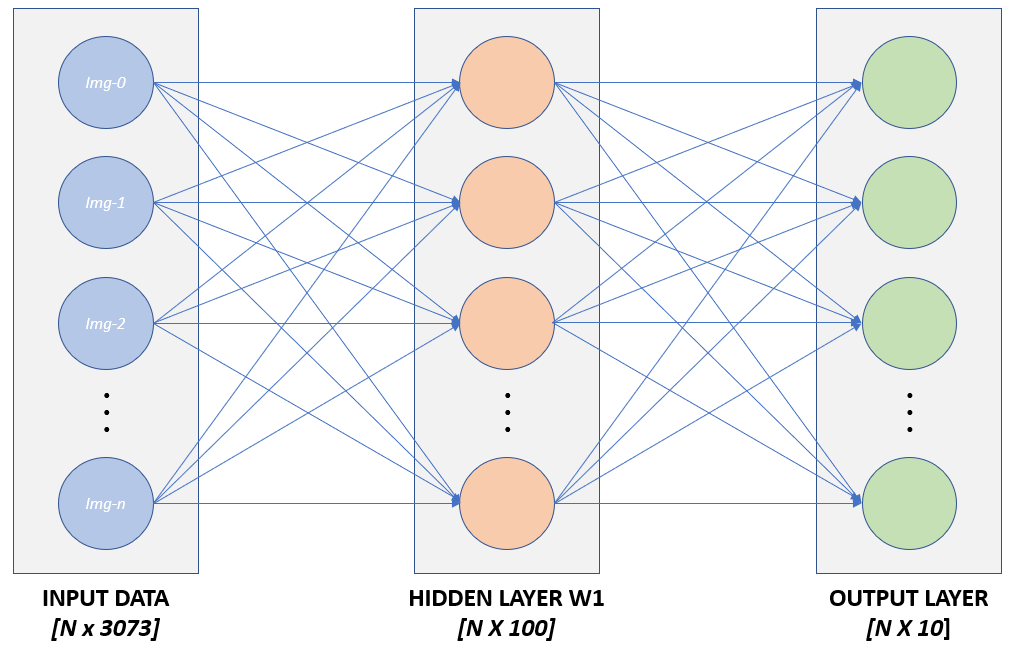
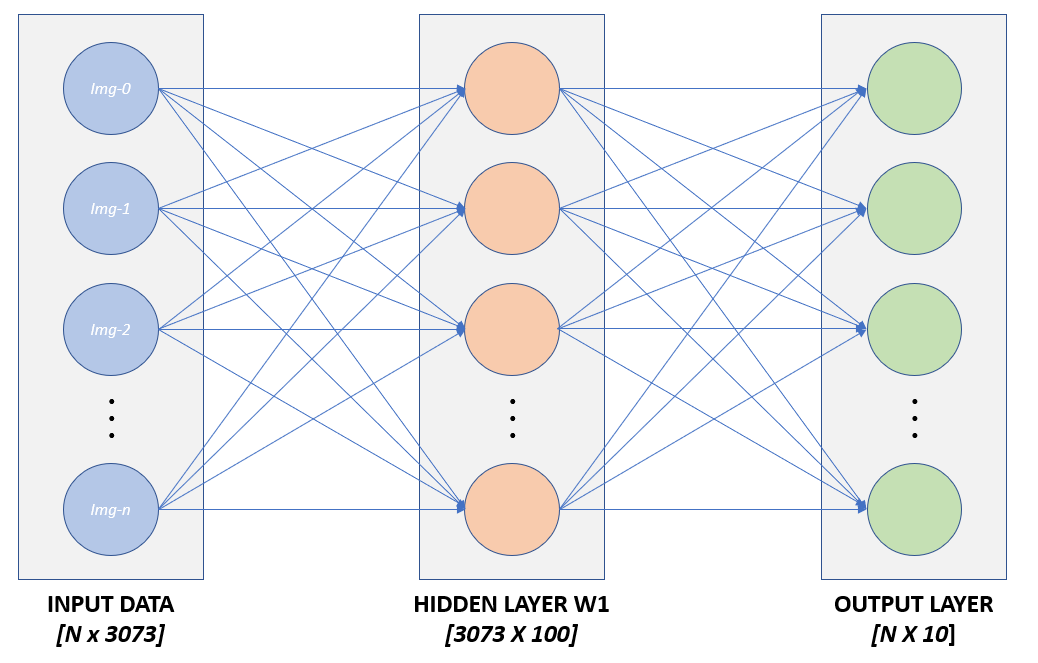
Final edits

diff --git a/documentation/_posts/2019-10-26-Two_Layer_Neural_Net.md b/documentation/_posts/2019-10-26-Two_Layer_Neural_Net.md
@@ -8,9 +8,9 @@ math: true
 author: "J. Abbott"
 ---
 
-> Self Guided study of the [course notes](http://cs231n.github.io/)[^1] for cs231n: Convolutional Neural Networks for Visual Recognition provided through Stanford University. Included in this page are references to the classes and function calls developed by Stanford university and others, [Miranda[^2], Voss[^3]], who have worked through this course material. The complete implementation of the [Two-Layer Neural Network](/jupyter_notebook/jupyter%20notebooks/2019/09/26/svm_implementation.html) has been exported as a final Markdown file and can be found in the [Jupyter Notebooks](/jupyter_notebooks/) section of this site.
+> Self Guided study of the [course notes](http://cs231n.github.io/)[^1] for cs231n: Convolutional Neural Networks for Visual Recognition provided through Stanford University. Included in this page are references to the classes and function calls developed by Stanford university and others, [Miranda[^2], Voss[^3]], who have worked through this course material. The complete implementation of the [Two-Layer Neural Network](/jupyter_notebook/jupyter%20notebooks/2019/10/26/two_layer_net.html) has been exported as a final Markdown file and can be found in the [Jupyter Notebooks](/jupyter_notebooks/) section of this site.
 
-In this section, we'll work through the steps and underlying theory for developing a Two Layer Neural Network. The initial model will be generated and tested using a toy data set. Once we're able to obtain ideal testing and validation results using the toy dataset, we'll extend the application of the Two Layer Neural Network onto the CIFAR-10[^4] [^5] labeled dataset for image classification. 
+In this post, we'll work through the steps and theory for developing a Two Layer Neural Network. The initial model will be generated and tested using a toy data set. Once we're able to obtain ideal testing and validation results using the toy dataset, we'll extend the application of the Two Layer Neural Network onto the CIFAR-10[^4] [^5] labeled dataset for image classification. 
 
 - [Neural Network Architecture](#nn-architecture)
     - [Data Organization and Computation](#data_org)
@@ -30,15 +30,16 @@ In this section, we'll work through the steps and underlying theory for developi
 ## <a name="nn-architecture"></a> Neural Network Architecture
 
 ### <a name="data_org"></a> Data Organization and Computation
-In the previous section covering an [SVM classifier](/documentation/2019/09/26/Training-an-SVM-Classifier.html), we developed an image classification model using a linear score function which was computed using the dot product of the input training data set $$X$$ and the randomly generated weight matrix $$ W $$. In this example, $$X$$ was a set of $$n$$ images, (i.e. row vectors) containing 3072 pixels each plus an additional bias dimension for a final shape of $$(n$$ x $$ 3073)$$. The weight matrix $$W$$ in this example consisted of 10 column vectors of size 3072 randomly generated weights, (plus a bias $$b$$). The final matrix of shape $$(3072$$ x $$10)$$ represented each possible classification within the data set, providing us with a set of parameters $$W$$ that could then be learned through Stochastic Gradient Descent, (SGD).  
+In the previous post we developed an image classification model using a [SVM classifier](/documentation/2019/09/26/Training-an-SVM-Classifier.html), supervised learning algorithm that works to identify the optimal hyperplane for linearly separable patterns. The SVM uses a linear "scoring" function, $$f$$ which assumes a boundary exists that separates one class boundary from another. The scoring function $$f$$ was computed using the dot product of the input training data set $$X$$ and the randomly generated weight matrix $$W$$. In this example, $$X$$ was a set of $$n$$ images, (i.e. row vectors) containing 3072 pixels each plus an additional bias dimension $$b$$, for a final shape of $$(n$$ x $$ 3073)$$. The weight matrix $$W$$ in this example consisted of 10 column vectors of size 3072 randomly generated weights, (plus a bias $$b$$). The final matrix of shape $$(3073$$ x $$10)$$ represented each possible classification within the data set, providing us with a set of parameters $$W$$ that could then be learned through Stochastic Gradient Descent, (SGD).  
 
-For this implementation of a neural network, we'll utilize this same linear scoring function as a component within each layer of our network. The output from the first layer, also known as the hidden layer, will then be passed as an input into the second subsequent layer. As a general example, we might generate two weight matrices, $$W_1$$ of shape $$(3073 $$ x $$ 100)$$ and  $$W_2$$ of shape $$(10 $$ x $$ 100)$$, where the larger matrix $$W_1$$ will learn to identify larger features in the data set while the smaller weight matrix $$W_2$$ will learn to identify smaller, detail specific features. The final score is then computed as follows. 
+For this implementation of a neural network, we'll utilize the softmax scoring function as our linear classifier and extend the scoring process across two separate layers consisting of a hidden layer and final output layer. As a general example, we might generate two weight matrices, $$W_1$$ of shape $$(3073 $$ x $$ 100)$$ and  $$W_2$$ of shape $$(100 $$ x $$ 10)$$, where the larger matrix $$W_1$$ will learn to identify larger features in the data set while the smaller weight matrix $$W_2$$ will learn to identify smaller, detail specific features. The final score is then computed as follows. 
 
 $$
 s = W_2 * max(0, X * W_1)
 $$ 
 
-In this representation, the use of the $$max()$$ function serves as a ReLU activation function to the network, (discussed below). This application provides us with a non-linearity which separates the two weight matrices, allowing us to train each set of parameters through SGD. This implementation of a neural network effectively executes a series of linear mapping functions which are tied together through activation functions, (i.e. non-linear functions). A simple visualization of this network is shown in Figure 1.
+In the above expression, the $$max()$$ function, otherwise know as a ReLU activation function, works as a non-linearity which provides a separation between 
+the two weight matrices $$W_1$$ and $$W_2$$. This separation in turn is what allows us to train each set of parameters through SGD. This implementation of a neural network effectively executes a series of linear mapping functions which are then tied together through activation functions, (i.e. non-linear functions). A simple visualization of this network is shown in Figure 1.
 
 ![png](/assets/png/2lnn/2LNN.png){:width="560px"}
 {: style="text-align: center;"} 
@@ -46,7 +47,7 @@ In this representation, the use of the $$max()$$ function serves as a ReLU activ
 __Figure 1:__ _Graphical Representation of a Two Layer Neural Network_
 {: style="text-align: center;"} 
 
-Note that the "first layer" of an N-Layer neural network starts after the input layer. In our case, figure one consists of an input layer and a 2 layer neural network, where by the network consists of a hidden layer and an output layer. Also omitted from the graphic in figure one are details regarding the activation function which is calculated as part of the hidden layer.  
+Note that the "first layer" of an N-Layer neural network starts after the input layer. Figure 1 shows an input layer and a 2 layer neural network, comprised of a hidden layer and an output layer. Also omitted from the graphic in figure one are details regarding the activation function which is calculated as part of the hidden layer.  
 
 ## <a name="dev-toy"></a> Development (Toy Model)
 
@@ -337,7 +338,7 @@ Validation accuracy:  0.282
 
 ## <a name="Hyperparameter-tuning"></a> Hyperparameter Tuning
 
-As stated, we wish to optimize our network through hyper parameter tuning. By observation of Figure 6, the gap between the training accuracy and the validation accuracy remains low, which provides reassurance that we're not over fitting. However, we can better understand the affects of regularization strength on the model by fine tunning the regularization strength. Another hyperparameter to analyze is the learning rate. Large learning rates have the tendency to result in unstable training, causing the model to converge rapidly to a suboptimal solution. Small leaning rates on the other hand risk getting stuck and fail to train the network. Finally, we'll look at the total number of training iterations as well as how adjustments to the number of neurons in the hidden layer affect overall performance. Again, looking at Figure 6, the validation accuracy maintains an upward slope through training, suggesting that we simply haven't provided the network with enough iterations. 
+As stated, we wish to optimize our network through hyper parameter tuning. By observation of Figure 6, the gap between the training accuracy and the validation accuracy remains low, which provides reassurance that we're not over fitting. However, we can better understand the affects of regularization strength on the model by fine tunning the regularization strength. Another hyperparameter to analyze is the learning rate. Large learning rates have the tendency to result in unstable training, causing the model to converge rapidly to a suboptimal solution. Small leaning rates on the other hand risk getting stuck and fail to train the network. Finally, we'll look at the total number of training iterations as well as how adjustments to the number of neurons in the hidden layer affect overall performance. Again, looking at Figure 6, the validation accuracy maintains an upward slope through training, suggesting that we simply haven't provided the network with enough iterations. Referencing source code made available by Miranda[^2] and Voss[^3], the final implementation for hyperparameter tuning is shown below. 
 
 
 ![png](/assets/png/2lnn/output_19_0.png){:width="560px"}
@@ -345,7 +346,6 @@ As stated, we wish to optimize our network through hyper parameter tuning. By ob
 
 __Figure 6:__ _Training Results: Loss, Training Accuracy, & Validation Accuracy_
 {: style="text-align: center;"} 
-
 
 ```python
 best_net = None # store the best model into this 
@@ -395,19 +395,32 @@ for h, lr, reg in sorted(results):
 print('best validation accuracy achieved during cross-validation: %f' % best_val)
 ```
 
-Plotting the results of cross-validation, Figure 7, we obtain a validation accuracy of 52.0%, acquired with the following parameters. 
-    - Learning Rate: 1e-3
-    - Regularization Strength: 0.3 
-    - Hidden Layer Size: 150 
+```python
+h 100 lr 1.000000e-05 reg 3.000000e-01 train accuracy: 0.620776 val accuracy: 0.194000
+h 100 lr 1.000000e-05 reg 4.000000e-01 train accuracy: 0.620776 val accuracy: 0.194000
+h 100 lr 1.000000e-05 reg 5.000000e-01 train accuracy: 0.620776 val accuracy: 0.194000
+h 100 lr 1.000000e-04 reg 3.000000e-01 train accuracy: 0.620776 val accuracy: 0.391000
+h 100 lr 1.000000e-04 reg 4.000000e-01 train accuracy: 0.620776 val accuracy: 0.390000
+.
+.
+.
+best validation accuracy achieved during cross-validation: 0.52000
+```
+
+Looking at the output results, (python print statements above), we obtain a validation accuracy of 52.0% acquired using the following parameters. 
+- Learning Rate: 1e-3
+- Regularization Strength: 0.3 
+- Hidden Layer Size: 150 
+
+Plotting the training history for the net with the best validation accuracy, Figure 7, we're able to see the loss history, training accuracy, and validation accuracy as we train the network. It is worth noting how the validation and training accuracies begin to diverge after approximately 2 epochs, suggesting that we may be overfitting the data beyond this point. 
 
 ![png](/assets/png/2lnn/output_24_1.png){:width="560px"}
 {: style="text-align: center;"} 
 
 __Figure 7:__ _Training Results (After HyperParameter Tuning): Loss, Training Accuracy, & Validation Accuracy_
 {: style="text-align: center;"} 
-
-However, it is worth noting how the validation and training accuracies begin to diverge after approximately 2 epochs. 
-Visualizing the weights of the learned parameters, Figure 8, we can start to see some details emerge in the output. 
+ 
+Visualizing the weights of the learned parameters, Figure 8, we can start to see some details emerge in the learned weights. 
 
 ![png](/assets/png/2lnn/output_25_0.png){:width="560px"}
 {: style="text-align: center;"} 
@@ -415,7 +428,7 @@ Visualizing the weights of the learned parameters, Figure 8, we can start to see
 __Figure 8:__ _Visualization of Learned Parameters_
 {: style="text-align: center;"} 
 
-Finally, testing the model on the test data set, we obtain a Test Accuracy of 52%.
+Finally, we implement the model of learned weights using the test data set. From this step we we obtain a test accuracy of 52%.
 
 ```python
 test_acc = (best_net.predict(X_test) == y_test).mean()

diff --git a/jupyter_notebook/_posts/2019-10-26-two_layer_net.md b/jupyter_notebook/_posts/2019-10-26-two_layer_net.md
@@ -1,3 +1,15 @@
+---
+layout: post
+title: "Two Layer Neural Network"
+date: 2019-10-26
+category: Jupyter Notebooks
+comments: true
+math: true
+author: "J. Abbott"
+---
+
+> Original source code provided by Stanford University, see [course notes](http://cs231n.github.io/) for cs231n: Convolutional Neural Networks for Visual Recognition.
+
 # Implementing a Neural Network
 In this exercise we will develop a neural network with fully-connected layers to perform classification, and test it out on the CIFAR-10 dataset.
 
@@ -189,7 +201,7 @@ plt.show()
     
 
 
-![png](output_13_1.png)
+![png](/assets/png/2lnn/output_13_1.png)
 
 
 # Load the data
@@ -270,7 +282,7 @@ print('Test labels shape: ', y_test.shape)
 ```
 
 
-![png](output_15_0.png)
+![png](/assets/png/2lnn/output_15_0.png)
 
 
     Train data shape:  (49000, 3072)
@@ -348,7 +360,7 @@ plot_stats(stats)
 ```
 
 
-![png](output_19_0.png)
+![png](/assets/png/2lnn/output_19_0.png)
 
 
 
@@ -378,7 +390,7 @@ show_net_weights(net)
 ```
 
 
-![png](output_21_0.png)
+![png](/assets/png/2lnn/output_21_0.png)
 
 
 # Tune your hyperparameters
@@ -452,7 +464,7 @@ plot_stats(best_stats)
     
 
 
-![png](output_24_1.png)
+![png](/assets/png/2lnn/output_24_1.png)
 
 
 
@@ -462,7 +474,7 @@ show_net_weights(best_net)
 ```
 
 
-![png](output_25_0.png)
+![png](/assets/png/2lnn/output_25_0.png)
 
 
 # Run on the test set

diff --git a/jupyter_notebook/_posts/2019-09-26-svm_implementation.md b/jupyter_notebook/_posts/2019-09-26-svm_implementation.md
@@ -8,6 +8,8 @@ math: true
 author: "J. Abbott"
 ---
 
+> Original source code provided by Stanford University, [course notes](http://cs231n.github.io/)[^1] for cs231n: Convolutional Neural Networks for Visual Recognition.
+
 ```python
 # Run some setup code for this notebook.
 import random

diff --git a/jupyter_notebook/_posts/2019-09-19-knn_implementation.md b/jupyter_notebook/_posts/2019-09-19-knn_implementation.md
@@ -7,6 +7,9 @@ comments: true
 math: true
 author: "J. Abbott"
 ---
+
+> Original source code provided by Stanford University, see [course notes](http://cs231n.github.io/) for cs231n: Convolutional Neural Networks for Visual Recognition.
+
 ```python
 # -*- coding: utf-8 -*-
 """
